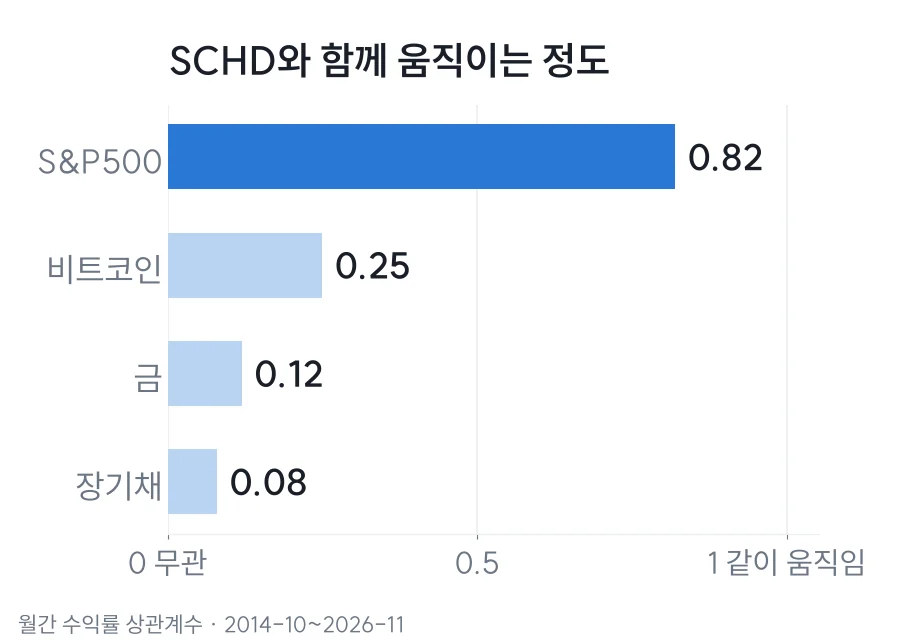
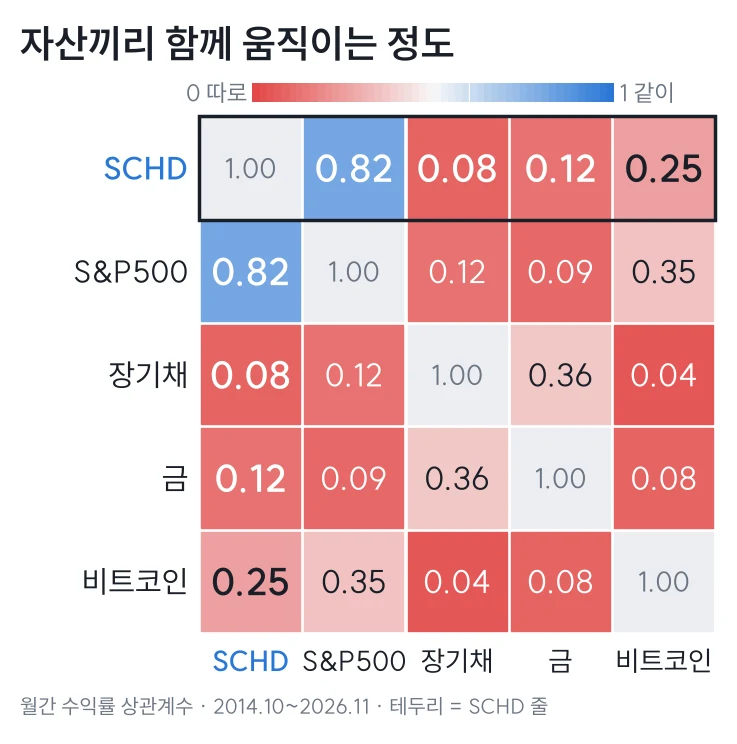
상관계수 빨강-파랑 히트맵·자산별 설명, vidIQ 대신 무료 댓글 수집 방안 기록
Claude-Session: https://claude.ai/code/session_01DBGKHsc3dH2WGfRK1tXguA

diff --git a/wordpress-plan/etf/schd_v2.html b/wordpress-plan/etf/schd_v2.html
@@ -50,6 +50,9 @@ td.k{font-weight:800}
 .c-schd{color:var(--c-schd)}.c-dgro{color:var(--c-dgro)}.c-vym{color:var(--c-vym)}.c-spy{color:var(--c-spy)}.c-safe{color:var(--c-safe)}.c-grow{color:var(--c-grow)}
 ul.clean{margin:0 0 20px;padding-left:20px}
 ul.clean li{margin-bottom:8px}
+ul.corr{list-style:none;padding:0;margin:8px 0 20px}
+ul.corr li{padding:12px 0;border-bottom:1px solid var(--line);line-height:1.6}
+ul.corr li:last-child{border-bottom:0}
 .note{font-size:14px;color:var(--ink2);line-height:1.7}
 .baekho{display:flex;gap:12px;align-items:center;border:1px solid var(--line);border-radius:14px;padding:14px 16px;margin:28px 0}
 .baekho img{width:40px;height:40px;border-radius:50%;flex:none}
@@ -131,9 +134,15 @@ a{color:var(--accent);text-decoration:none}
 <p class="note">지난 15년이 특히 좋았던 기간이라 낙관적인 숫자예요. 연 8%로 보수적으로 잡으면 약 7.5억입니다. 세금·물가는 빠져 있어요.</p>
 
 <h2>SCHD에 무엇을 섞을까?</h2>
-<figure><img src="out/m-schd-correlation.webp" alt="SCHD와 S&amp;P500 0.82, 비트코인 0.25, 금 0.12, 장기채 0.08 상관계수" loading="lazy"></figure>
-<p class="how"><b>분석 방법 · 상관계수</b>두 자산이 같은 달에 같은 방향으로 움직였는지를 0~1 사이 숫자로 나타냈어요. 1에 가까우면 함께 오르내리고, 0에 가까우면 서로 상관없이 움직여요. 2014년부터 146개월 데이터로 계산했습니다.</p>
-<p>SCHD는 S&amp;P500과 <span class="num">0.82</span>로 거의 함께 움직이고, 금(<span class="num">0.12</span>)·장기채(<span class="num">0.08</span>)와는 따로 움직여요. 배당 ETF라고 <mark>하락장 방패는 아니라는 뜻</mark>이에요.</p>
+<figure><img src="out/m-schd-correlation.webp" alt="SCHD, S&amp;P500, 장기채, 금, 비트코인 상관계수 히트맵. SCHD와 S&amp;P500 0.82, 장기채 0.08, 금 0.12, 비트코인 0.25" loading="lazy"></figure>
+<p class="how"><b>분석 방법 · 상관계수</b>두 자산이 같은 달에 같은 방향으로 움직였는지를 숫자로 나타냈어요. 1에 가까울수록(파랑) 함께 오르내리고, 0에 가까울수록(빨강) 서로 따로 움직여요. 맨 윗줄이 SCHD 기준이에요. 2014년부터 146개월 데이터로 계산했습니다.</p>
+<ul class="corr">
+<li><span class="c-spy"><b>S&amp;P500</b></span> <span class="num">0.82</span><br>거의 함께 움직여요. 미국 주식이 빠지면 SCHD도 같이 빠져요.</li>
+<li><b>비트코인</b> <span class="num">0.25</span><br>약하게만 연결돼요. 섞어도 흔들림을 줄여 주진 않아요.</li>
+<li><b>금</b> <span class="num">0.12</span><br>거의 따로 움직여요. 주식이 빠질 때 버팀목이 될 수 있어요.</li>
+<li><b>장기채</b> <span class="num">0.08</span><br>가장 따로 움직여요. 섞으면 전체 흔들림이 가장 많이 줄어요.</li>
+</ul>
+<p>정리하면, 배당 ETF라고 <mark>하락장 방패는 아니에요.</mark> 방패가 필요하면 채권이나 금을 같이 담아야 해요.</p>
 <figure><img src="out/m-schd-portfolio.webp" alt="성장형 9.8배, SCHD 단독 6.6배, 안정형 3.5배 백테스트" loading="lazy"></figure>
 <p class="how"><b>분석 방법 · 백테스트</b>2011년 11월에 1,000만 원을 넣고, 매년 말 원래 비율로 다시 맞췄다고 가정해 과거 데이터로 계산했어요.</p>
 <div class="tbl"><table><thead><tr><th>예시 조합 (2011.11~)</th><th>연평균</th><th>최대 낙폭</th></tr></thead><tbody>

diff --git a/wordpress-plan/brand/site.css b/wordpress-plan/brand/site.css
@@ -39,3 +39,4 @@ a{color:var(--accent)}
 .foot{font-size:12.5px;color:var(--ink2);line-height:1.75}
 .ans{display:flex;gap:10px;align-items:flex-start;margin:0 0 24px}.ans img{width:34px;height:34px;border-radius:50%;flex:none;margin:2px 0 0}
 .ans div{min-width:0;background:var(--soft);border-radius:4px 16px 16px 16px;padding:12px 16px;font-size:16px;line-height:1.75}
+ul.corr{list-style:none;padding:0;margin:8px 0 20px}ul.corr li{padding:12px 0;border-bottom:1px solid var(--line);line-height:1.6}ul.corr li:last-child{border-bottom:0}

diff --git a/wordpress-plan/etf/corr_variants.py b/wordpress-plan/etf/corr_variants.py
@@ -1,0 +1,37 @@
+import json, numpy as np, matplotlib, os
+matplotlib.use("Agg")
+import matplotlib.pyplot as plt
+from matplotlib import font_manager as fm
+from matplotlib.colors import LinearSegmentedColormap
+for f in os.listdir("../brand/fonts/suit"):
+    if f.endswith(".ttf"): fm.fontManager.addfont("../brand/fonts/suit/" + f)
+plt.rcParams.update({"font.family": "SUIT", "figure.facecolor": "white", "axes.facecolor": "white"})
+S = json.load(open("data/stats.json")); C = np.array(S["corr"]); L = ["SCHD", "S&P500", "장기채", "금", "비트코인"]
+INK = "#191f28"; INK2 = "#6b7684"
+cm = LinearSegmentedColormap.from_list("b", ["#ffffff", "#2a78d6"])
+# C: 반쪽 히트맵 (아래 삼각형), 큰 글씨
+fig, ax = plt.subplots(figsize=(9, 8.6))
+n = 5
+for i in range(n):
+    for j in range(n):
+        if j >= i: continue
+        v = C[i, j]; ax.add_patch(plt.Rectangle((j, n - 1 - i), 0.96, 0.96, color=cm(min(1, max(0, v))), ec="white"))
+        hi = (j == 0)
+        ax.text(j + 0.48, n - 1 - i + 0.48, f"{v:.2f}", ha="center", va="center", fontsize=30 if hi else 25,
+                fontweight="bold" if hi else "normal", color="white" if v > 0.6 else INK)
+for i in range(1, n): ax.text(-0.12, n - 1 - i + 0.48, L[i], ha="right", va="center", fontsize=24, color=INK)
+for j in range(n - 1): ax.text(j + 0.48, n - 0.75, L[j], ha="center", va="bottom", fontsize=23, color=INK if j else "#2a78d6", fontweight="bold" if j == 0 else "normal")
+ax.add_patch(plt.Rectangle((0, 0), 0.96, n - 1 - 0.04, fill=False, ec="#2a78d6", lw=3))
+ax.set_xlim(-1.9, n - 0.9); ax.set_ylim(-0.4, n + 0.1); ax.axis("off")
+ax.text(-1.9, n + 0.05, "자산끼리 함께 움직이는 정도", fontsize=28, fontweight="bold", color=INK, va="bottom")
+ax.text(-1.9, -0.35, "1에 가까울수록 같이 움직임 · 파란 테두리 = SCHD 기준 · 월간 수익률 2014~", fontsize=16, color=INK2)
+fig.savefig("out/m-schd-correlation-heatmap.png", dpi=100, bbox_inches="tight"); plt.close(fig)
+from PIL import Image
+im = Image.open("out/m-schd-correlation-heatmap.png").convert("RGB"); im.save("out/m-schd-correlation-heatmap.webp", "WEBP", quality=86, method=6)
+a = Image.open("out/m-schd-correlation.webp").convert("RGB"); b = im
+a = a.resize((390, int(a.height * 390 / a.width))); b = b.resize((390, int(b.height * 390 / b.width)))
+s = Image.new("RGB", (800, max(a.height, b.height) + 40), "white"); s.paste(a, (0, 40)); s.paste(b, (410, 40))
+from PIL import ImageDraw, ImageFont
+d = ImageDraw.Draw(s); f = ImageFont.truetype("../brand/fonts/suit/SUIT-Bold.ttf", 20)
+d.text((10, 8), "A. 가로 막대 (지금)", font=f, fill=INK); d.text((420, 8), "B. 반쪽 히트맵 (박스형 개선)", font=f, fill=INK)
+s.save("out/corr-compare.png")

diff --git a/wordpress-plan/etf/corr_heatmap.py b/wordpress-plan/etf/corr_heatmap.py
@@ -1,0 +1,36 @@
+import json, numpy as np, matplotlib, os
+matplotlib.use("Agg")
+import matplotlib.pyplot as plt
+from matplotlib import font_manager as fm
+from matplotlib.colors import LinearSegmentedColormap
+from PIL import Image
+for f in os.listdir("../brand/fonts/suit"):
+    if f.endswith(".ttf"): fm.fontManager.addfont("../brand/fonts/suit/" + f)
+plt.rcParams.update({"font.family": "SUIT", "figure.facecolor": "white"})
+S = json.load(open("data/stats.json")); C = np.array(S["corr"]); L = ["SCHD", "S&P500", "장기채", "금", "비트코인"]; n = 5
+INK = "#191f28"; INK2 = "#6b7684"
+cm = LinearSegmentedColormap.from_list("rb", ["#e34948", "#f7f7f7", "#2a78d6"])   # 0=빨강(따로) 0.5=흰색 1=파랑(같이)
+fig, ax = plt.subplots(figsize=(9, 9.6))
+for i in range(n):
+    for j in range(n):
+        y = n - 1 - i
+        if i == j:
+            ax.add_patch(plt.Rectangle((j, y), 0.96, 0.96, color="#eceef1")); ax.text(j + .48, y + .48, "1.00", ha="center", va="center", fontsize=20, color=INK2); continue
+        v = C[i, j]; col = cm(min(1, max(0, v)))
+        ax.add_patch(plt.Rectangle((j, y), 0.96, 0.96, color=col))
+        dark = v > 0.7 or v < 0.15
+        ax.text(j + .48, y + .48, f"{v:.2f}", ha="center", va="center", fontsize=27 if (i == 0 or j == 0) else 23,
+                fontweight="bold" if (i == 0 or j == 0) else "normal", color="white" if dark else INK)
+for k in range(n):
+    ax.text(-0.12, n - 1 - k + .48, L[k], ha="right", va="center", fontsize=22, color="#2a78d6" if k == 0 else INK, fontweight="bold" if k == 0 else "normal")
+    ax.text(k + .48, -0.12, L[k], ha="center", va="top", fontsize=20, color="#2a78d6" if k == 0 else INK, fontweight="bold" if k == 0 else "normal")
+ax.add_patch(plt.Rectangle((-0.02, n - 1 - 0.02), n, 1.0, fill=False, ec=INK, lw=2.5))
+ax.set_xlim(-1.75, n); ax.set_ylim(-0.9, n + 0.8); ax.set_aspect("equal"); ax.axis("off")
+ax.text(-1.75, n + 0.55, "자산끼리 함께 움직이는 정도", fontsize=28, fontweight="bold", color=INK)
+# 범례 막대
+for k in range(50):
+    ax.add_patch(plt.Rectangle((0.5 + k * 0.07, n + 0.12), 0.07, 0.18, color=cm(k / 49), lw=0))
+ax.text(0.45, n + 0.21, "0 따로", ha="right", va="center", fontsize=17, color=INK2); ax.text(4.05, n + 0.21, "1 같이", ha="left", va="center", fontsize=17, color=INK2)
+ax.text(-1.75, -0.8, "월간 수익률 상관계수 · 2014.10~2026.11 · 테두리 = SCHD 줄", fontsize=15, color=INK2)
+fig.savefig("out/_h.png", dpi=100, bbox_inches="tight", pad_inches=0.2); plt.close(fig)
+Image.open("out/_h.png").convert("RGB").save("out/m-schd-correlation.webp", "WEBP", quality=88, method=6); os.remove("out/_h.png")

diff --git a/wordpress-plan/STRATEGY.md b/wordpress-plan/STRATEGY.md
@@ -123,7 +123,10 @@
 - 목차는 검색 답(배당) → 나만의 분석(단점·30년·섞기) → 일반 정보(수익률·비교·기본정보) 순. 차트는 휴대폰용 m- 버전(가로 900px, 글자 22~34px), charts_mobile.py.
 
 ## FAQ 만드는 법 (2026-11-19 확정)
-- vidIQ 커넥터: `vidiq_youtube_search`(티커+배당, 한국, 조회수순) → 댓글 많은 한국어 영상 3개 `vidiq_video_comments`(relevance, minLikes 10~15). 호출당 5크레딧, 글 1편 약 20크레딧.
+- **vidIQ는 쓰지 않는다** (사용자: 유료 구독 안 함, 2026-11-19). 대신 무료: (1) YouTube Data API v3 키(무료 하루 10,000단위, 검색 100+댓글 3회≈103단위/글) — 키는 request_credential로 www.googleapis.com, 헤더 X-Goog-Api-Key. (2) 키 없을 땐 구글·네이버 자동완성만. yt-dlp는 클라우드 IP라 봇 차단돼 불가.
+- 네이버 자동완성: `curl -G https://ac.search.naver.com/nx/ac --data-urlencode q=티커 --data-urlencode st=100 --data-urlencode r_format=json --data-urlencode q_enc=UTF-8 --data-urlencode r_enc=UTF-8`
 - 공감 많은 댓글·반복 질문 4~6개 + 자동완성 검색어 질문 → FAQ. 댓글 작성자 이름·문장 그대로 인용 금지(요지만).
 - FAQ 위에 '질문 고른 방법' 회색 한 줄. 답은 백호 말풍선(반말, 데이터 근거, 권유 표현 금지).
 - SCHD 댓글 주제: 하락·횡보장 적립식(최다 공감), 그냥 S&P500?, 배당성장 지속?, 국내 미국배당다우존스 총비용·환헤지, PTP 10% 원천징수 오해, 월 배당 100만 원.
+
+- 상관계수 차트: 정사각 히트맵(X·Y 같은 5자산), 0=빨강·0.5=흰색·1=파랑, 대각선 회색 1.00, SCHD 줄 테두리. 아래에 자산별 한 줄 설명 목록(ul.corr). corr_heatmap.py
